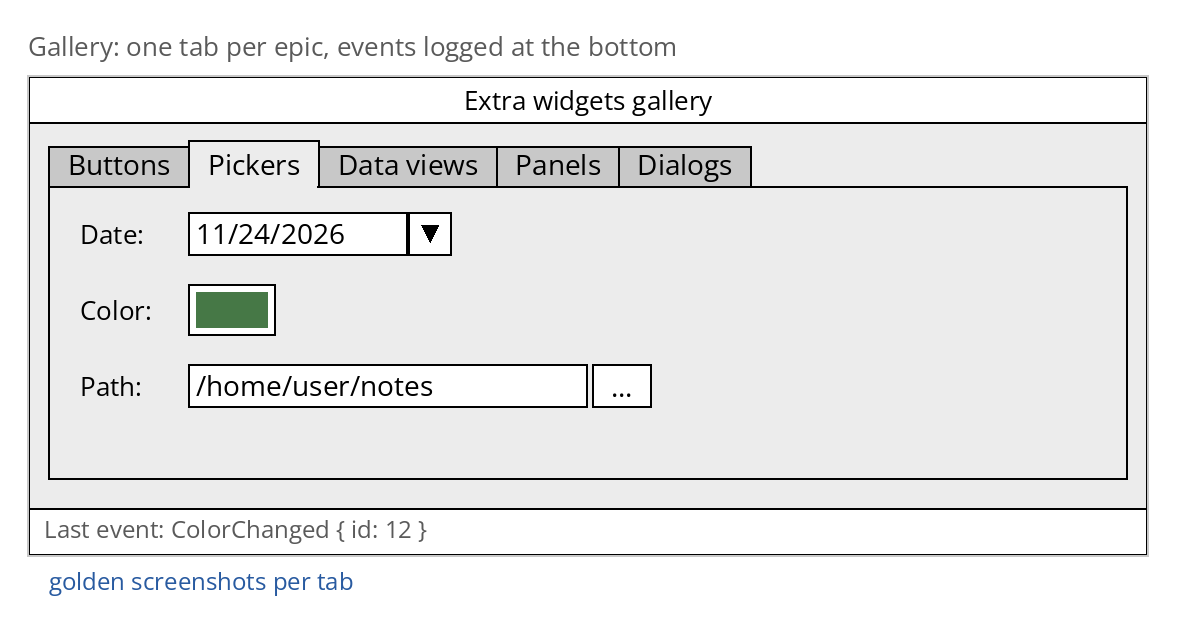
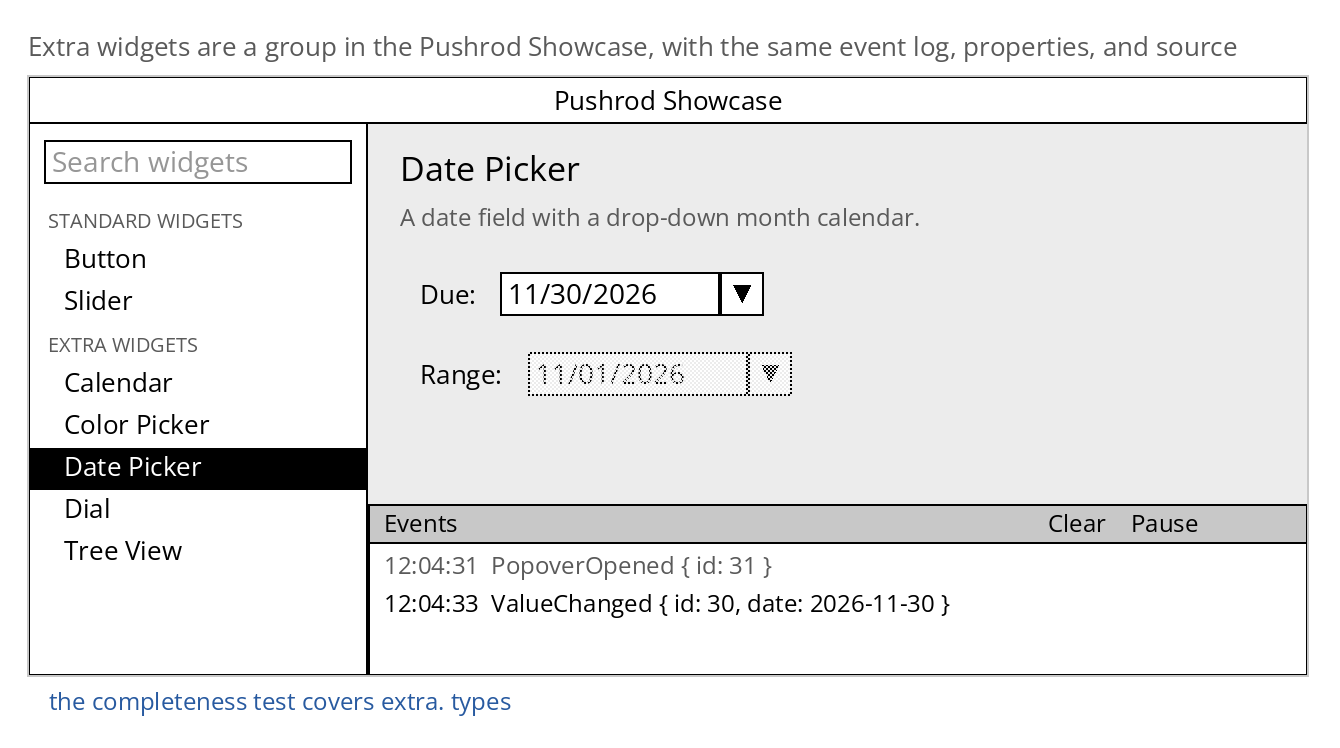
docs: mockups for text truncation and wrapping, the Pushrod Showcase, and eight more extra widgets
Claude-Session: https://claude.ai/code/session_014QbAny3BSUJNBZtu6oJccA

Changed region(s): [[0.0, 0.0303, 0.9763, 0.9682], [0.1525, 0.3328, 0.5797, 0.4236], [0.3051, 0.4538, 0.5797, 0.5446]]

diff --git a/docs/mockups/generate_extra_widgets.py b/docs/mockups/generate_extra_widgets.py
@@ -17,7 +17,7 @@ Sample data must be fictional: no real names, e-mail addresses, places, or paths
 import math
 import os
 
-from generate import (C, storyboard, _picture, _icon, _choice, _tabs, _browser, _dial,
+from generate import (C, storyboard, _picture, _icon, _choice, _tabs, _browser, _dial, _showcase, _fit,
                       PANEL, BLACK, WHITE, GRAY, MID, DARK, HERE)
 
 XW = {}
@@ -169,13 +169,12 @@ def crate():
 
 @xw("1.2")
 def gallery():
-    c = C(560, 240); x, y = window(c, 0, 0, 560, 240, "Extra widgets gallery")
-    _tabs(c, 10, y + 8, 540, 170, ["Buttons", "Pickers", "Data views", "Panels", "Dialogs"], 1)
-    c.text(26, y + 46, "Date:", BLACK, 13); c.field(80, y + 44, 110, "11/24/2026"); c.glyph(190, y + 44, 22, "down")
-    c.text(26, y + 84, "Color:", BLACK, 13); c.rect(80, y + 80, 44, 26, fill=WHITE); c.rect(84, y + 84, 36, 18, fill=(70, 120, 70), outline=None)
-    c.text(26, y + 122, "Path:", BLACK, 13); c.field(80, y + 120, 200, "/home/user/notes"); c.button(282, y + 120, 30, 22, "…")
-    c.rect(0, 216, 560, 24, fill=WHITE); c.text(8, 218, "Last event: ColorChanged { id: 12 }", DARK, 12)
-    return [("Gallery: one tab per epic, events logged at the bottom", c, "golden screenshots per tab")]
+    pages = [("h", "STANDARD WIDGETS"), ("i", "Button"), ("i", "Slider"), ("h", "EXTRA WIDGETS"), ("i", "Calendar"), ("i", "Color Picker"), ("i", "Date Picker"), ("i", "Dial"), ("i", "Tree View")]
+    c = _showcase(640, 300, "Date Picker", pages=pages, log=["12:04:31  PopoverOpened { id: 31 }", "12:04:33  ValueChanged { id: 30, date: 2026-11-30 }"])
+    c.text(186, 62, "A date field with a drop-down month calendar.", DARK, 12)
+    c.text(196, 100, "Due:", BLACK, 13); c.field(236, 98, 110, "11/30/2026"); c.glyph(346, 98, 22, "down")
+    c.text(196, 140, "Range:", BLACK, 13); c.field(250, 138, 110, "11/01/2026", disabled=True); c.glyph(360, 138, 22, "down", disabled=True)
+    return [("Extra widgets are a group in the Pushrod Showcase, with the same event log, properties, and source", c, "the completeness test covers extra. types")]
 
 
 @xw("1.3")
@@ -1003,6 +1002,190 @@ def shortcuts_editor():
     c.text(170, 170, "Used by Save As…", DARK, 11); c.button(326, 140, 96, 24, "Reassign")
     c.button(12, 196, 80, 26, "Reset"); c.button(100, 196, 90, 26, "Reset All")
     return [("Filtered table; shortcut field reports a conflict", c, "ShortcutsChanged on Reassign")]
+
+
+# ============================================================================
+# Second pass: popular in modern toolkits
+# ============================================================================
+def _dragval(c, x, y, w, label, val, hot=False, edit=False):
+    if edit:
+        c.field(x, y, w, val, caret=len(val), focused=True, h=24); return
+    c.rect(x, y, w, 24, fill=BLACK if hot else WHITE)
+    c.text(x + 6, y + 2, label, MID if not hot else GRAY, 13); c.text(x + w - 8 - c.tw(val, 13), y + 2, val, WHITE if hot else BLACK, 13)
+
+
+def _hresize(c, x, y):
+    c.line(x - 8, y, x + 8, y, BLACK, 2); c.tri(x - 12, y - 4, 8, "left"); c.tri(x + 5, y - 4, 8, "right")
+
+
+@xw("2.9")
+def drag_value():
+    a = C(230, 70); _dragval(a, 14, 14, 90, "X", "120"); _dragval(a, 112, 14, 90, "Y", "48")
+    b = C(230, 70); _dragval(b, 14, 14, 90, "X", "137", hot=True); _dragval(b, 112, 14, 90, "Y", "48"); _hresize(b, 80, 50)
+    d = C(230, 70); _dragval(d, 14, 14, 90, "X", "137"); _dragval(d, 112, 14, 90, "Y", "48")
+    e = C(230, 70); _dragval(e, 14, 14, 90, "X", "200", edit=True); _dragval(e, 112, 14, 90, "Y", "48")
+    f = C(270, 70); _dragval(f, 14, 14, 116, "Opacity", "50 %"); _dragval(f, 138, 14, 110, "Angle", "90°")
+    return [("1. Idle", a, None), ("2. Dragging right: the value follows", b, "ValueChanged (continuous)"), ("3. Released", d, "EditingFinished"),
+            ("4. Click without dragging: type a value", e, "Return commits, Escape cancels"), ("Prefix and suffix", f, None)]
+
+
+def _range(c, x, y, w, lo, hi, hot=None, labels=True):
+    c.line(x, y + 10, x + w, y + 10, BLACK, 2)
+    lx, hx = x + int(w * lo), x + int(w * hi)
+    c.rect(lx, y + 6, hx - lx, 9, fill=BLACK, outline=None)
+    for n, kx in enumerate((lx, hx)):
+        c.rect(kx - 6, y + 1, 12, 18, fill=DARK if hot == n else WHITE)
+    if labels: c.text(x + w + 12, y, f"{int(lo * 100)} to {int(hi * 100)}", BLACK, 13)
+
+
+@xw("2.10")
+def range_slider():
+    a = C(300, 56); _range(a, 16, 16, 180, 0.2, 0.7)
+    b = C(300, 56); _range(b, 16, 16, 180, 0.2, 0.55, hot=1); b.pointer(118, 30)
+    d = C(300, 56); _range(d, 16, 16, 180, 0.4, 0.75); d.pointer(120, 30)
+    e = C(300, 56); _range(e, 16, 16, 180, 0.5, 0.55, hot=0); e.pointer(108, 30)
+    return [("1. Low 20, high 70", a, None), ("2. Dragging the upper thumb", b, "RangeChanged(20, 55)"), ("3. Dragging the span moves both", d, "RangeChanged(40, 75)"),
+            ("Thumbs cannot cross (min_gap)", e, None)]
+
+
+def _tokens(c, x, y, w, toks, typing="", sel=None, h=28):
+    c.rect(x, y, w, h, fill=WHITE); cx, cy = x + 4, y + 3
+    for n, t in enumerate(toks):
+        tw = int(c.tw(t, 13)) + 26
+        if cx + tw > x + w - 4: cx = x + 4; cy += 26
+        c.rect(cx, cy, tw, 22, fill=BLACK if n == sel else PANEL); col = WHITE if n == sel else BLACK
+        c.text(cx + 5, cy + 1, t, col, 13); c.line(cx + tw - 14, cy + 7, cx + tw - 7, cy + 14, col); c.line(cx + tw - 7, cy + 7, cx + tw - 14, cy + 14, col)
+        cx += tw + 4
+    if typing is not None:
+        c.text(cx + 2, cy + 1, typing, BLACK, 13); tx = cx + 2 + c.tw(typing, 13); c.line(tx, cy + 3, tx, cy + 19)
+    return cx, cy
+
+
+@xw("3.10")
+def token_field():
+    a = C(330, 110); a.text(12, 16, "Tags:", BLACK, 13); _tokens(a, 60, 12, 250, ["rust", "gui"], "sd")
+    b = C(330, 110); b.text(12, 16, "Tags:", BLACK, 13); cx, cy = _tokens(b, 60, 12, 250, ["rust", "gui"], "sd"); b.listbox(cx, 42, 110, ["sdl2", "sdl3"], selected={0}, scroll=False)
+    d = C(330, 110); d.text(12, 16, "Tags:", BLACK, 13); _tokens(d, 60, 12, 250, ["rust", "gui", "sdl2"], "")
+    e = C(330, 110); e.text(12, 16, "Tags:", BLACK, 13); _tokens(e, 60, 12, 250, ["rust", "gui", "sdl2"], None, sel=2)
+    f = C(330, 110); f.text(12, 16, "Tags:", BLACK, 13); _tokens(f, 60, 12, 250, ["rust", "gui", "sdl2", "widgets", "desktop"], "", h=54)
+    return [("1. Typing after two tokens", a, None), ("2. Suggestions while typing", b, None), ("3. Return or comma: a new token", d, "TokensChanged"),
+            ("4. Backspace selects the last token; again removes it", e, None), ("Wraps onto a second line", f, None)]
+
+
+LOG = [("", "   Compiling contact-dialog v0.1.0"), ("w", "warning: unused variable `count`"), ("", "  --> src/forms/main.rs:14:9"), ("e", "error: mismatched types"), ("", "  --> src/forms/main.rs:22:18"), ("", "error: could not compile `contact-dialog`")]
+
+
+def _log(c, x, y, w, lines, sel=None, jump=False, pos=1.0):
+    h = 20 * 5 + 2; c.rect(x, y, w, h, fill=WHITE)
+    for n, (lvl, t) in enumerate(lines[-5:]):
+        ry = y + 1 + n * 20
+        if n == sel: c.rect(x + 1, ry, w - 18, 20, fill=BLACK, outline=None)
+        col = WHITE if n == sel else BLACK
+        if lvl == "w": c.poly([(x + 5, ry + 15), (x + 15, ry + 15), (x + 10, ry + 5)], fill=None, outline=col)
+        if lvl == "e": c.rect(x + 5, ry + 5, 10, 10, fill=col, outline=None)
+        c.text(x + 22, ry, t, col, 12)
+        if lvl: c.text(x + 22.5, ry, t, col, 12)
+    c.scrollbar(x + w - 16, y, h, True, pos, 0.3)
+    if jump: c.glyph(x + w - 44, y + h - 26, 22, "down")
+
+
+@xw("4.13")
+def log_view():
+    a = C(420, 126); _log(a, 12, 12, 396, LOG[:5])
+    b = C(420, 126); _log(b, 12, 12, 396, LOG)
+    d = C(420, 126); _log(d, 12, 12, 396, LOG[:5], jump=True, pos=0.3); d.pointer(396, 50)
+    e = C(420, 126); _log(e, 12, 12, 396, LOG, sel=3); e.pointer(120, 84)
+    return [("1. Lines appended; warnings and errors marked", a, None), ("2. New line: the view follows the tail", b, None),
+            ("3. Scrolled up: stops following, Jump to end appears", d, None), ("4. Double-click a line", e, "Activated (jump to main.rs:22)")]
+
+
+def _canvas(c, x, y, w, h, items, sel=(), band=None, grid=True, links=(), zoom=1.0):
+    c.rect(x, y, w, h, fill=WHITE)
+    if grid:
+        step = int(20 * zoom)
+        for gy in range(y + step, y + h, step):
+            for gx in range(x + step, x + w, step): c.rect(gx, gy, 1, 1, fill=MID, outline=None)
+    pos = {}
+    for n, (ix, iy, t) in enumerate(items):
+        bw, bh = int(84 * zoom), int(34 * zoom); px, py = x + int(ix * zoom), y + int(iy * zoom); pos[n] = (px, py, bw, bh)
+    for a, b in links:
+        ax, ay, aw, ah = pos[a]; bx, by, bw, bh = pos[b]; mx = (ax + aw + bx) // 2
+        c.line(ax + aw, ay + ah // 2, mx, ay + ah // 2); c.line(mx, ay + ah // 2, mx, by + bh // 2); c.line(mx, by + bh // 2, bx, by + bh // 2)
+    for n, (ix, iy, t) in enumerate(items):
+        px, py, bw, bh = pos[n]; c.rect(px, py, bw, bh, fill=PANEL); c.ctext(px, py, bw, bh, t, BLACK, int(12 * zoom))
+        if n in sel:
+            for hx, hy in [(px, py), (px + bw, py), (px, py + bh), (px + bw, py + bh)]: c.rect(hx - 3, hy - 3, 6, 6, fill=BLACK)
+    if band: c.dotted(*band)
+
+
+ITEMS = [(20, 20, "Load"), (150, 20, "Filter"), (150, 90, "Sort"), (290, 56, "Save")]
+
+
+@xw("4.14")
+def canvas_view():
+    a = C(420, 170); _canvas(a, 10, 10, 400, 150, ITEMS, links=[(0, 1), (0, 2), (1, 3), (2, 3)])
+    b = C(420, 170); _canvas(b, 10, 10, 400, 150, ITEMS, sel={1, 2}, band=(150, 20, 110, 130), links=[(0, 1), (0, 2), (1, 3), (2, 3)]); b.pointer(258, 148)
+    it = list(ITEMS); it[1] = (170, 10, "Filter"); it[2] = (170, 80, "Sort")
+    d = C(420, 170); _canvas(d, 10, 10, 400, 150, it, sel={1, 2}, links=[(0, 1), (0, 2), (1, 3), (2, 3)]); d.pointer(230, 40)
+    e = C(420, 170); _canvas(e, 10, 10, 400, 150, [(10, 10, "Load"), (140, 10, "Filter"), (140, 80, "Sort")], zoom=1.6, links=[(0, 1), (0, 2)])
+    e.rect(10, 10, 400, 150, fill=None); e.rect(410, 0, 10, 170, fill=PANEL, outline=None); e.rect(0, 160, 420, 10, fill=PANEL, outline=None); e.rect(10, 10, 400, 150, fill=None); e.pointer(200, 80)
+    return [("1. Items on a grid, joined by connectors", a, None), ("2. Rubber band selects two", b, "SelectionChanged"),
+            ("3. Dragging the selection: snaps to the grid", d, "ItemsMoved"), ("4. Ctrl+wheel zooms around the pointer", e, "ViewChanged(zoom 1.6)")]
+
+
+@xw("4.15")
+def rich_text_view():
+    c = C(420, 250); c.rect(10, 10, 400, 230, fill=WHITE); x = 22
+    c.text(x, 16, "Release notes", BLACK, 19); c.text(x + 0.6, 16, "Release notes", BLACK, 19)
+    c.text(x, 50, "Version 1.2 adds", BLACK, 13); bx = x + c.tw("Version 1.2 adds ", 13); c.text(bx, 50, "wrapped labels", BLACK, 13); c.text(bx + 0.6, 50, "wrapped labels", BLACK, 13)
+    c.text(bx + c.tw("wrapped labels ", 13), 50, "and fixes:", BLACK, 13)
+    for n, t in enumerate(["Text no longer overflows buttons", "Faster list scrolling"]):
+        c.ellipse(x + 6, 82 + n * 22, 5, 5, fill=BLACK, outline=None); c.text(x + 20, 74 + n * 22, t, BLACK, 13)
+    c.rect(x, 126, 376, 46, fill=PANEL, outline=GRAY); c.text(x + 8, 130, "[dependencies]", BLACK, 12); c.text(x + 8, 148, "pushrod = \"1.2\"", BLACK, 12)
+    c.text(x, 184, "See the", BLACK, 13); lx = x + c.tw("See the ", 13); lw = c.tw("upgrade guide", 13)
+    c.text(lx, 184, "upgrade guide", (50, 80, 160), 13); c.line(lx, 202, lx + lw, 202, (50, 80, 160)); c.text(lx + lw, 184, " for details.", BLACK, 13); c.pointer(int(lx + 40), 192)
+    c.scrollbar(394, 10, 230, True, 0.0, 0.7)
+    return [("Markdown rendered flat: heading, bold, list, code block, link", c, "LinkActivated(url)")]
+
+
+def _palette_panel(c, text, rows, sel=0):
+    c.rect(0, 0, c.w, c.h, fill=PANEL); c.rect(0, 0, c.w, 22, fill=WHITE)
+    for n, m in enumerate(["File", "Edit", "View", "Run"]): c.text(10 + n * 48, 2, m, BLACK, 13)
+    c.rect(20, 34, c.w - 40, c.h - 46, fill=WHITE); c.ctext(20, 34, c.w - 40, c.h - 46, "Work area", MID, 13)
+    px, pw = (c.w - 380) // 2, 380
+    c.rect(px, 22, pw, 40 + 24 * len(rows), fill=WHITE, width=2)
+    c.field(px + 8, 30, pw - 16, text, caret=len(text), focused=True)
+    for n, (cat, name, bold, sc, dis) in enumerate(rows):
+        ry = 60 + n * 24
+        if n == sel: c.rect(px + 2, ry, pw - 4, 24, fill=BLACK, outline=None)
+        col = WHITE if n == sel else (MID if dis else BLACK)
+        c.text(px + 12, ry + 2, cat, col if n == sel else MID, 12); tx = px + 70
+        for ch_i, ch in enumerate(name):
+            c.text(tx, ry + 2, ch, col, 13)
+            if ch_i in bold: c.text(tx + 0.6, ry + 2, ch, col, 13); c.line(tx, ry + 20, tx + c.tw(ch, 13), ry + 20, col)
+            tx += c.tw(ch, 13)
+        if sc: c.text(px + pw - 12 - c.tw(sc, 12), ry + 3, sc, col, 12)
+
+
+@xw("6.9")
+def command_palette():
+    a = C(520, 220); _palette_panel(a, "", [("File", "Save All", (), "Ctrl+Shift+S", False), ("Run", "Build and Run", (), "F5", False), ("View", "Toggle Inspector", (), "F4", False), ("Edit", "Bring to Front", (), "", True)])
+    b = C(520, 220); _palette_panel(b, "sa", [("File", "Save All", (0, 1), "Ctrl+Shift+S", False), ("File", "Save As…", (0, 1), "", False), ("Edit", "Select All", (0, 7), "Ctrl+A", False)])
+    d = C(520, 220); _palette_panel(d, "sa", [("File", "Save All", (0, 1), "Ctrl+Shift+S", False), ("File", "Save As…", (0, 1), "", False), ("Edit", "Select All", (0, 7), "Ctrl+A", False)], sel=1)
+    return [("1. Ctrl+Shift+P: recent commands first; disabled ones dimmed", a, None), ("2. Typing 'sa': fuzzy matches, matched letters marked", b, None),
+            ("3. Down, then Return runs Save As… and closes", d, "CommandRun(action)")]
+
+
+@xw("6.10")
+def recent_files_menu():
+    a = C(430, 190); a.rect(0, 0, 430, 22, fill=WHITE)
+    for n, m in enumerate(["File", "Edit", "View"]):
+        if n == 0: a.rect(4, 0, 40, 22, fill=BLACK, outline=None)
+        a.text(10 + n * 48, 2, m, WHITE if n == 0 else BLACK, 13)
+    a.menu(4, 22, 150, [("New", "Ctrl+N", ""), ("Open…", "Ctrl+O", ""), ("Open Recent", "", "sub"), ("", "", "sep"), ("Save", "Ctrl+S", "")], hover=2)
+    items = [("1  contacts.prsc", "", ""), ("2  " + _fit(a, "/home/user/projects/…/settings.prsc", 190, 13, "middle"), "", ""), ("3  old-demo.prsc", "", "disabled"), ("", "", "sep"), ("Clear Menu", "", "")]
+    a.menu(153, 66, 250, items, hover=0)
+    return [("Open Recent: numbered files, long paths shortened in the middle, a missing file dimmed, Clear Menu", a, "RecentChosen(path)")]
 
 
 def main():

diff --git a/docs/mockups/generate.py b/docs/mockups/generate.py
@@ -1832,6 +1832,171 @@ def example_dice():
     return [("Dice roller: die faces are icon resources; the row grows with the dice count", c, None)]
 
 
+# ---- Text truncation and wrapping, small behaviors (1.26, 1.27, 2.23, 2.24, 4.11, 4.12) ----
+def _fit(c, text, w, size=14, mode="end"):
+    """Returns `text` shortened with an ellipsis so it fits `w` logical pixels."""
+    if c.tw(text, size) <= w: return text
+    for n in range(len(text), 0, -1):
+        if mode == "end": t = text[:n].rstrip() + "…"
+        elif mode == "start": t = "…" + text[-n:].lstrip()
+        else: t = text[:(n + 1) // 2].rstrip() + "…" + text[-(n // 2):] if n > 1 else "…"
+        if c.tw(t, size) <= w: return t
+    return "…"
+
+def _wrap(c, text, w, size=14):
+    lines, cur = [], ""
+    for word in text.split():
+        t = (cur + " " + word).strip()
+        if c.tw(t, size) <= w: cur = t
+        else: lines.append(cur); cur = word
+    return lines + [cur]
+
+@sb("1.26")
+def truncation():
+    out = []; text = "Quarterly report draft.txt"
+    for lab, mode in [("Today: clipped mid-letter", None), ("End", "end"), ("Start", "start"), ("Middle (paths, file names)", "middle")]:
+        c = C(190, 60); c.rect(14, 16, 150, 26, fill=WHITE)
+        if mode is None:
+            c.text(20, 18, text); c.rect(164, 10, 26, 40, fill=PANEL, outline=None); c.line(163, 16, 163, 41)
+        else: c.text(20, 18, _fit(c, text, 138, mode=mode))
+        out.append((lab, c, None))
+    c = C(230, 60); c.button(14, 16, 110, 26, _fit(c, "Save and close all", 98)); c.tooltip(70, 40, "Save and close all"); c.pointer(60, 30)
+    out.append(("Button truncated; tooltip shows the full text", c, "is_truncated() is true"))
+    return out
+
+PARA = "The file could not be saved because the disk is full. Free some space and try again."
+
+@sb("1.27")
+def wrapped_text():
+    out = []
+    for lab, w, maxl, clip in [("Today: one clipped line", 250, 1, True), ("Wrapped at word boundaries", 250, None, False),
+                               ("Narrower: reflowed, taller", 160, None, False), ("max_lines = 2: last line truncated", 160, 2, False)]:
+        c = C(w + 40, 130); lines = _wrap(c, PARA, w - 12, 13)
+        if clip:
+            c.rect(14, 12, w, 24, fill=WHITE); c.text(20, 14, PARA, BLACK, 13); c.rect(14 + w, 8, 60, 34, fill=PANEL, outline=None); c.line(13 + w, 12, 13 + w, 35)
+        else:
+            if maxl and len(lines) > maxl: lines = lines[:maxl - 1] + [_fit(c, " ".join(lines[maxl - 1:]), w - 12, 13)]
+            c.rect(14, 12, w, 20 * len(lines) + 8, fill=WHITE)
+            for n, l in enumerate(lines): c.text(20, 15 + n * 20, l, BLACK, 13)
+        out.append((lab, c, None))
+    return out
+
+@sb("2.23")
+def selectable_label():
+    t = "Error 1042: connection timed out"
+    a = C(300, 60); a.text(14, 18, t)
+    b = C(300, 60); sx = 14 + b.tw("Error "); sw = b.tw("1042")
+    b.text(14, 18, "Error "); b.rect(int(sx), 18, int(sw) + 1, 22, fill=BLACK, outline=None); b.text(sx, 18, "1042", WHITE); b.text(sx + sw, 18, ": connection timed out"); b.ibeam(int(sx + sw) + 2, 20)
+    d = C(300, 60); d.text(14, 18, t); d.rect(14, 18, int(d.tw(t)) + 1, 22, fill=BLACK, outline=None); d.text(14, 18, t, WHITE)
+    return [("1. A selectable label", a, None), ("2. Double-click selects a word", b, "SelectionChanged"), ("3. Ctrl+A, then Ctrl+C", d, "text copied to the clipboard")]
+
+def _badge(c, x, y, text):
+    w = max(16, int(c.tw(text, 11)) + 8); c.rect(x, y, w, 16, fill=BLACK); c.ctext(x, y, w, 16, text, WHITE, 11)
+
+@sb("2.24")
+def badges():
+    a = C(150, 80); a.rect(30, 24, 40, 34, fill=WHITE); a.rect(40, 34, 20, 4, fill=BLACK, outline=None); a.rect(40, 42, 20, 4, fill=BLACK, outline=None); _badge(a, 60, 16, "3")
+    a.rect(90, 24, 40, 34, fill=WHITE); a.ellipse(102, 33, 16, 16); _badge(a, 118, 16, "99+")
+    b = C(260, 80); _tabs(b, 12, 14, 236, 56, ["Inbox", "Drafts", "Sent"], 0); b.rect(113, 18, 7, 7, fill=BLACK)
+    d = C(210, 80); d.listbox(12, 8, 186, ["Inbox", "Updates", "Archive"], selected={1}, scroll=False); _badge(d, 168, 10, "12"); d.rect(168, 30, 24, 16, fill=WHITE); d.ctext(168, 30, 24, 16, "3", BLACK, 11)
+    return [("Counts on image buttons (capped at 99+)", a, None), ("A dot on a tab", b, None), ("Counts on list rows", d, None)]
+
+@sb("4.11")
+def empty_state():
+    a = C(220, 130); a.listbox(14, 12, 190, ["report.txt", "notes.md", "plan.pdf"], scroll=False)
+    b = C(220, 130); b.rect(14, 12, 190, 104, fill=WHITE); b.ctext(14, 12, 190, 104, "No files yet", MID, 13)
+    d = C(300, 130); d.rect(14, 12, 270, 24, fill=WHITE)
+    for n, (t, x) in enumerate([("Name", 20), ("Size", 150), ("Modified", 200)]): d.text(x, 14, t, BLACK, 13)
+    d.rect(14, 35, 270, 81, fill=WHITE); d.ctext(14, 35, 270, 81, "No matches", MID, 13)
+    return [("A list with rows", a, None), ("Empty: the placeholder text", b, None), ("Empty table: headers stay", d, None)]
+
+@sb("4.12")
+def arithmetic():
+    a = C(200, 56); x = a.labeled(12, 16, "Width:", 56); a.field(x, 14, 90, "730/2", caret=5, focused=True)
+    b = C(200, 56); x = b.labeled(12, 16, "Width:", 56); b.field(x, 14, 90, "365")
+    d = C(200, 56); x = d.labeled(12, 16, "Width:", 56); d.field(x, 14, 90, "730/", focused=True); d.rect(x - 1, 13, 92, 24, fill=None, width=2)
+    return [("1. Type a calculation", a, None), ("2. Return: replaced by the result", b, "ValueChanged (365)"), ("Invalid: marked, not applied", d, None)]
+
+
+# ---- Pushrod Showcase (Epic 12) ----
+SHOW_PAGES = [("h", "CORE"), ("i", "Text"), ("i", "Layouts"), ("h", "STANDARD WIDGETS"), ("i", "Button"), ("i", "Check Box"), ("i", "Slider"), ("i", "Text Field"), ("h", "EXTRA WIDGETS"), ("i", "Tree View")]
+
+def _showcase(w, h, sel, search="", pages=None, log=None, props=None):
+    c = C(w, h); c.rect(0, 0, w, 24, fill=WHITE); c.ctext(0, 0, w, 24, "Pushrod Showcase", BLACK, 13)
+    c.rect(0, 23, 170, h - 23, fill=WHITE)
+    c.field(8, 32, 154, search, caret=len(search) if search else None, placeholder="Search widgets")
+    y = 62
+    for kind, t in (pages or SHOW_PAGES):
+        if kind == "h": c.text(10, y + 3, t, DARK, 10); y += 20; continue
+        if t == sel: c.rect(1, y, 168, 21, fill=BLACK, outline=None)
+        c.text(18, y, t, WHITE if t == sel else BLACK, 13); y += 21
+    bottom = h - (86 if log else 0); right = w - (190 if props else 0)
+    c.text(186, 34, sel, BLACK, 17)
+    if props:
+        c.rect(right, 23, 190, bottom - 23, fill=WHITE); c.text(right + 8, 30, "Properties", BLACK, 13)
+        for n, (k, v) in enumerate(props):
+            ry = 56 + n * 26; c.text(right + 8, ry, k, BLACK, 12)
+            if isinstance(v, bool): c.checkbox(right + 84, ry - 2, "", "on" if v else "off")
+            else: c.field(right + 84, ry - 2, 96, v, h=20)
+        c.button(right + 8, bottom - 34, 70, 24, "Reset")
+    if log:
+        c.rect(170, bottom, w - 170, 86, fill=WHITE); c.rect(170, bottom, w - 170, 20, fill=GRAY); c.text(178, bottom + 1, "Events", BLACK, 12)
+        c.text(w - 130, bottom + 1, "Clear    Pause", BLACK, 12)
+        for n, l in enumerate(log): c.text(178, bottom + 22 + n * 19, l, BLACK if n == len(log) - 1 else DARK, 12)
+    return c
+
+@sb("12.1", 1)
+def showcase_shell():
+    c = _showcase(640, 320, "Button"); c.text(186, 62, "A push button that runs an action when clicked.", DARK, 12)
+    c.button(190, 96, 90, 26, "Normal"); c.button(292, 96, 90, 26, "Default", default=True); c.button(394, 96, 90, 26, "Disabled", disabled=True)
+    c.button(190, 140, 90, 26, "Toggle", pressed=True); c.text(292, 144, "Clicked 3 times", BLACK, 13)
+    c.button(540, 30, 80, 24, "Source")
+    return [("One window: every widget and feature in the list, the selected page live on the right", c, None)]
+
+@sb("12.1", 2)
+def showcase_search():
+    c = _showcase(640, 250, "Slider", search="sl", pages=[("h", "STANDARD WIDGETS"), ("i", "Slider"), ("h", "EXTRA WIDGETS"), ("i", "Range Slider")])
+    c.slider(196, 90, 220, 0.4, ticks=10, value=40); c.slider(196, 140, 220, 0.7, disabled=True)
+    return [("Typing 'sl' filters the page list across all groups", c, None)]
+
+@sb("12.2")
+def showcase_page():
+    c = _showcase(640, 300, "Check Box"); c.text(186, 62, "Box with a check mark and label; optional mixed state.", DARK, 12)
+    for n, (lab, kw) in enumerate([("Unchecked", {}), ("Checked", dict(state="on")), ("Mixed", dict(state="mixed")), ("Focused", dict(state="on", focused=True)), ("Disabled", dict(state="on", disabled=True))]):
+        c.checkbox(196, 96 + n * 30, lab, **kw)
+    c.group(380, 90, 230, 110, "Try it"); c.checkbox(396, 118, "Send me the newsletter", "on"); c.checkbox(396, 146, "Remember this choice")
+    return [("The Check Box page: every state side by side, all live", c, "a test fails if a registered widget has no page")]
+
+@sb("12.3")
+def showcase_props():
+    c = _showcase(700, 300, "Button", props=[("text", "Save all"), ("disabled", False), ("default", True), ("toggle", False), ("width", "110")])
+    c.button(230, 110, 110, 28, "Save all", default=True); c.dotted(220, 100, 130, 48); c.pointer(300, 130)
+    return [("Click a widget to select it; edit its properties and it updates at once", c, "properties come from introspection: no per-widget code")]
+
+@sb("12.4")
+def showcase_events():
+    c = _showcase(640, 330, "Check Box", log=["12:01:07  Toggled { id: 14, checked: true }", "12:01:08  FocusChanged { id: 15, focused: true }", "12:01:09  Clicked { id: 21 }"])
+    c.checkbox(196, 80, "Send me the newsletter", "on"); c.checkbox(196, 110, "Remember this choice", focused=True); c.button(196, 150, 90, 26, "Apply", pressed=True); c.pointer(250, 164)
+    return [("Every event the page's widgets emit appears in the log, newest last", c, "engine events can be switched on")]
+
+@sb("12.5")
+def showcase_source():
+    c = _showcase(640, 300, "Button"); c.button(540, 30, 80, 24, "Source", pressed=True); c.button(540, 60, 80, 24, "Copy")
+    c.rect(186, 92, 436, 190, fill=WHITE)
+    for n, l in enumerate(["fn build(ui: &mut Ui) -> WidgetId {", "    let save = ui.add(Button::new(\"Save\").default(true));", "    ui.on_click(save, |state, ui, _| {", "        state.clicks += 1;", "    });", "    save", "}"]):
+        c.text(196, 100 + n * 22, l, BLACK, 12)
+    return [("Source shows the page's real build function, embedded at compile time", c, None)]
+
+@sb("12.6")
+def showcase_layouts():
+    def form(c, x, y, w):
+        for n, (lab, val) in enumerate([("Name:", "Jane Doe"), ("E-mail:", "jane.doe@example.com"), ("Phone:", "555-0100")]):
+            c.text(x, y + n * 32 + 2, lab, BLACK, 13); c.field(x + 62, y + n * 32, w - 62, val)
+        c.button(x + w - 90, y + 104, 90, 26, "OK", default=True)
+    a = _showcase(600, 270, "Layouts"); form(a, 196, 80, 380)
+    b = _showcase(470, 270, "Layouts"); form(b, 196, 80, 250)
+    return [("Form layout page", a, None), ("Window narrowed: the fields shrink, the labels stay aligned", b, None)]
+
 def main():
     for key, fn in SB.items():
         storyboard(fn(), os.path.join(HERE, f"{key}.png"))
